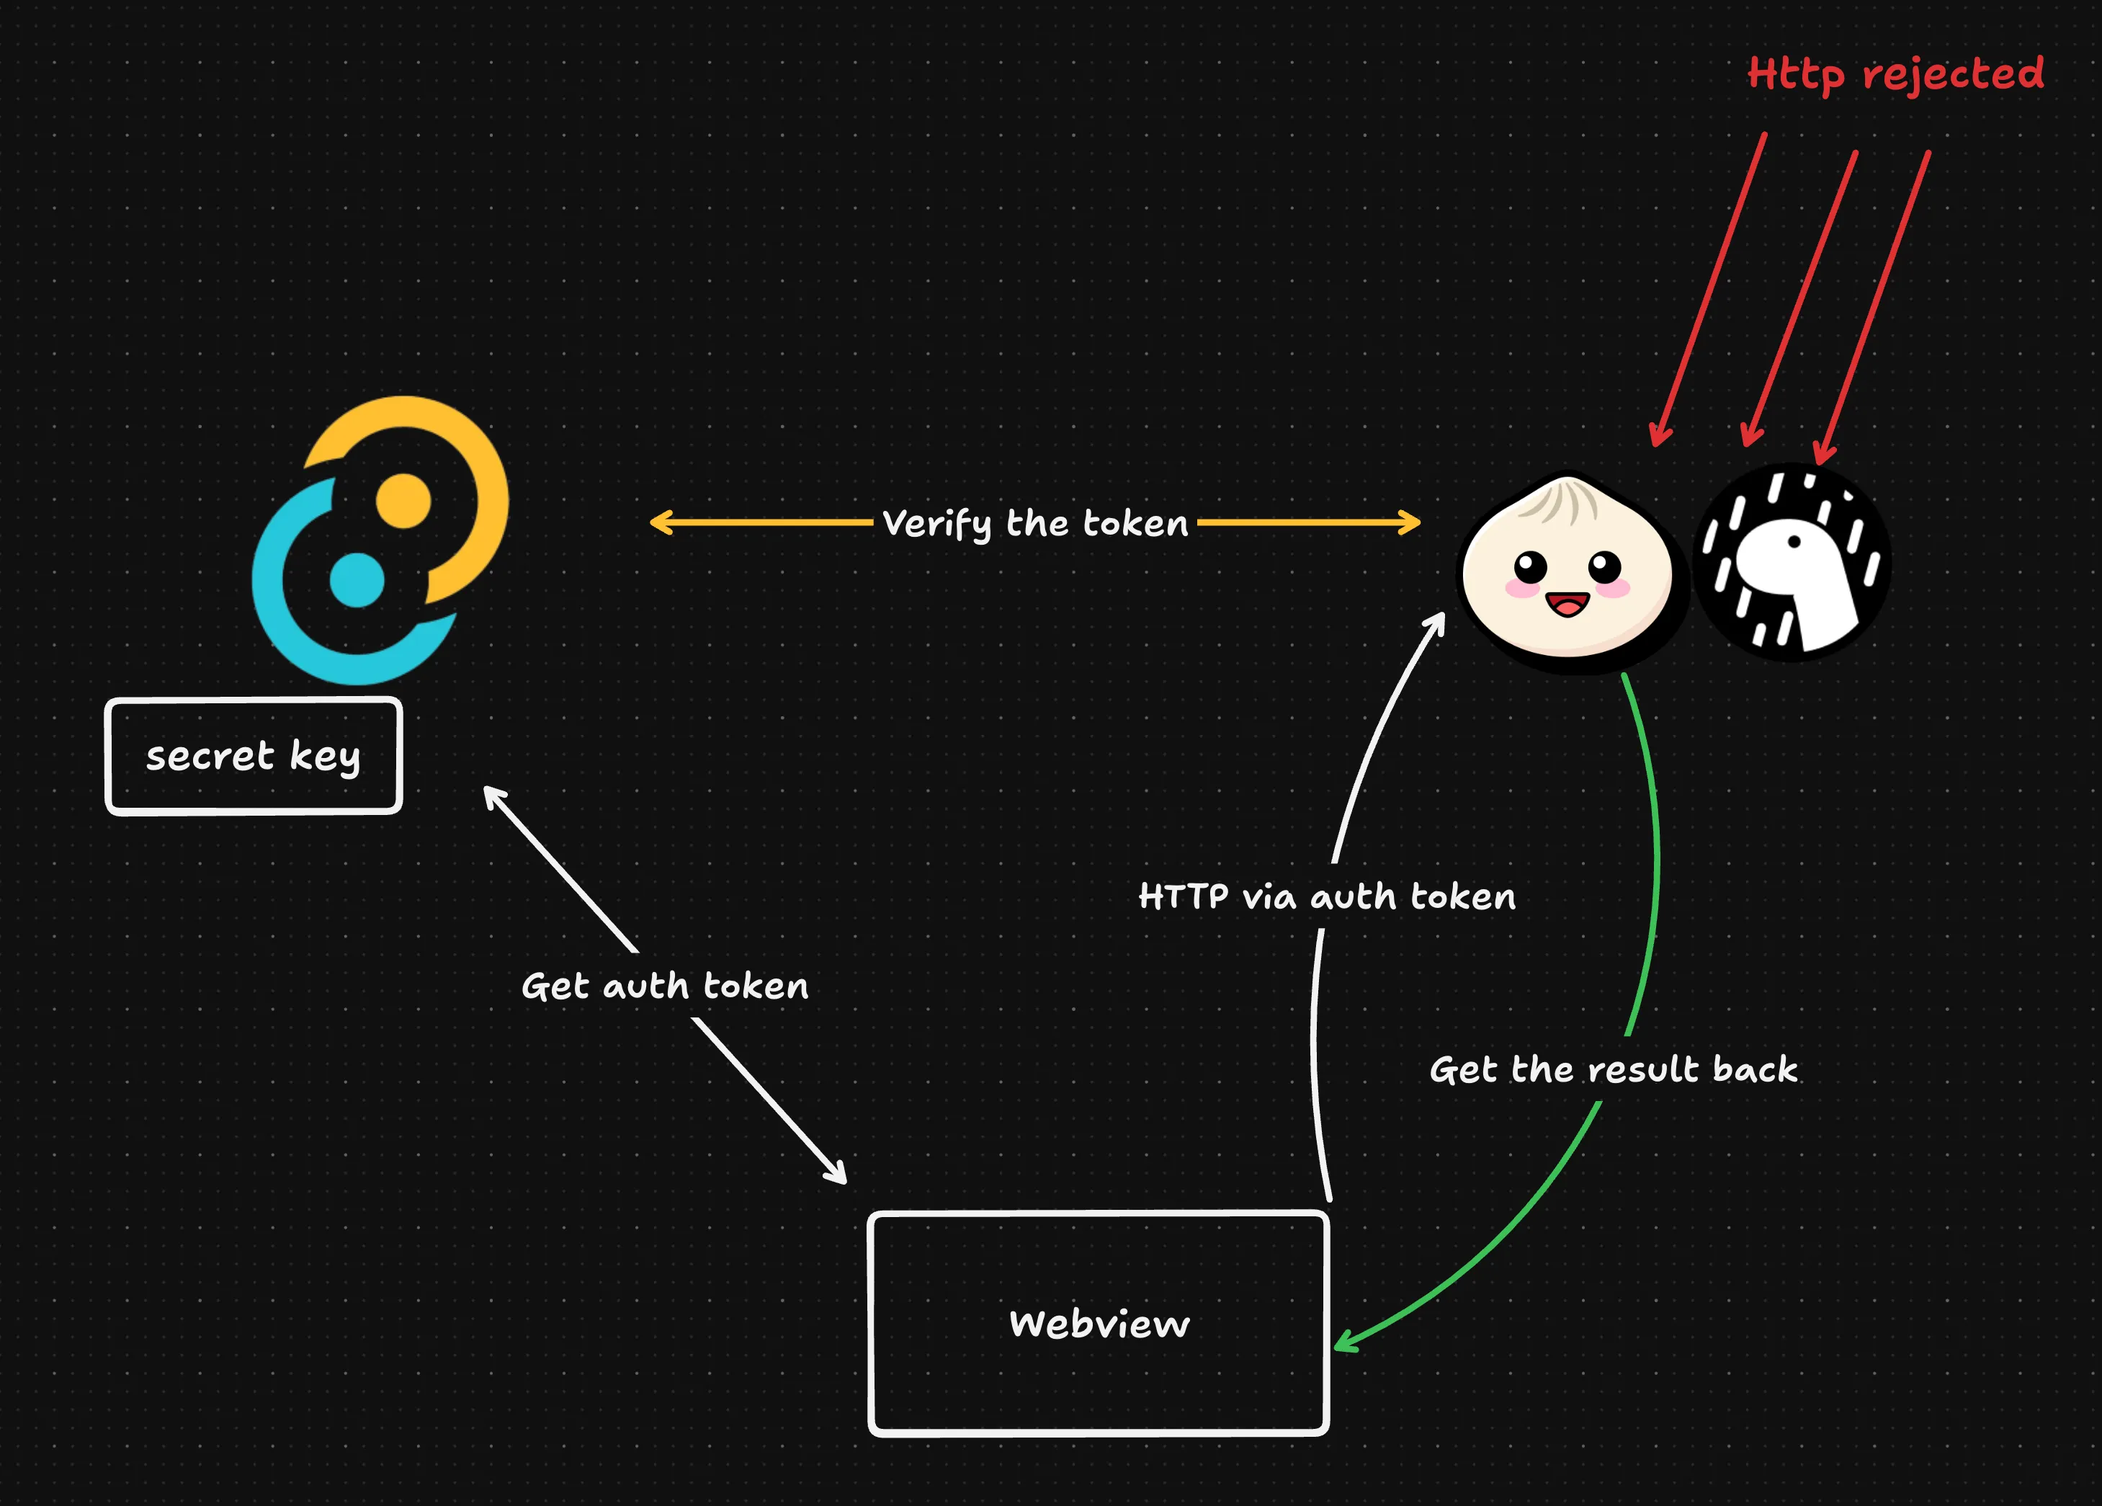
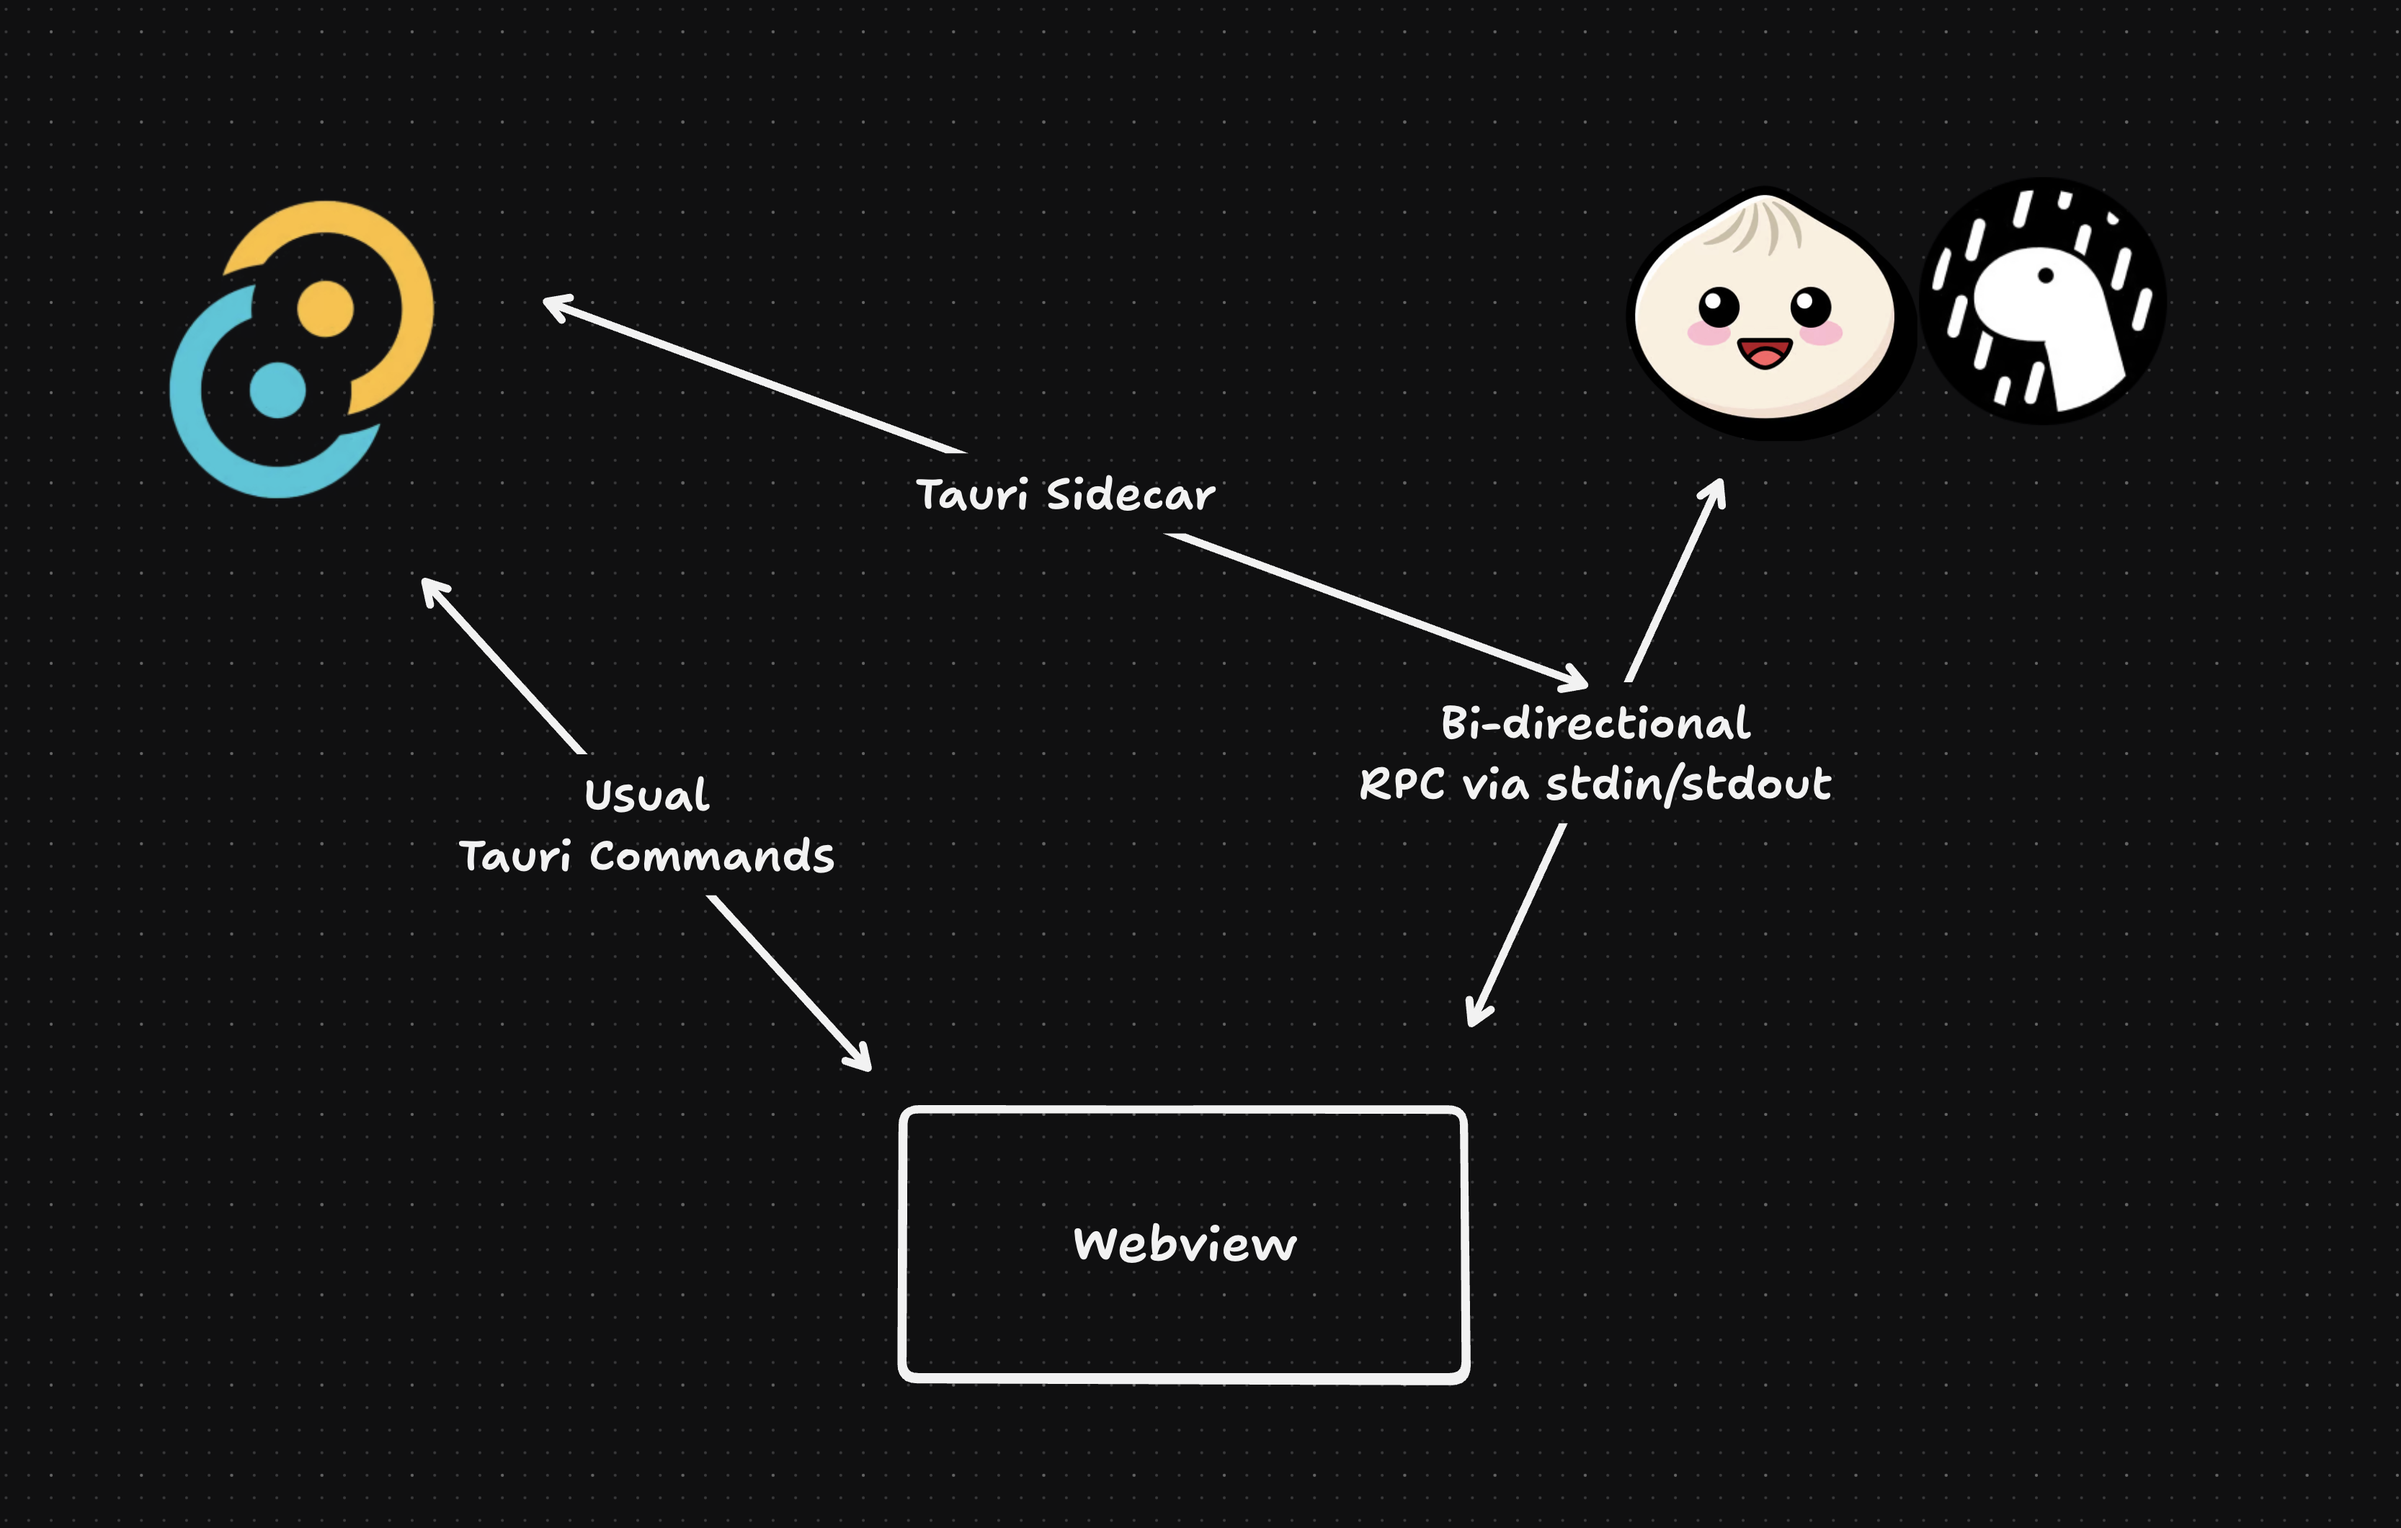
feat: update readme

diff --git a/README.md b/README.md
@@ -3,10 +3,7 @@
 Read the [blogpost](https://codeforreal.com/blogs/using-bun-or-deno-as-a-web-server-in-tauri/?utm_source=github.com) for the complete implementation details.
 
 This repo shows you how to setup a cross-platform desktop app using Tauri but
-with Bun as a web server. The web server is fully secured and is only accessible
-by the Tauri webview via token authentication that can be verified via Rust
-only. Accessing the webserver outside of the Rust and the Tauri webview will be
-blocked completely.
+with Bun. We create a bi-directional RPC between Bun server and our Tauri client using [kkrpc](https://docs.kkrpc.kunkun.sh/). This setup requires almost zero extra code in Rust backend aside from Tauri Sidecar configuration.
 <br />
 
 ##### A Tauri + Deno version is available [here](https://github.com/niraj-khatiwada/tauri-deno).
